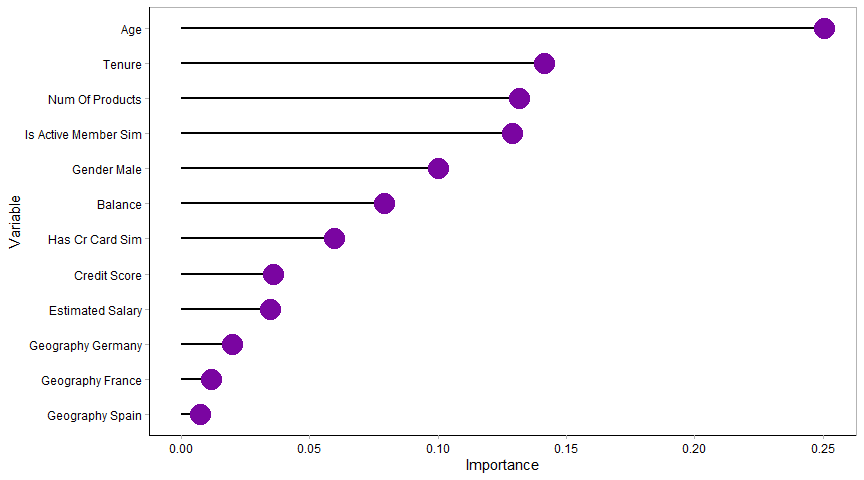
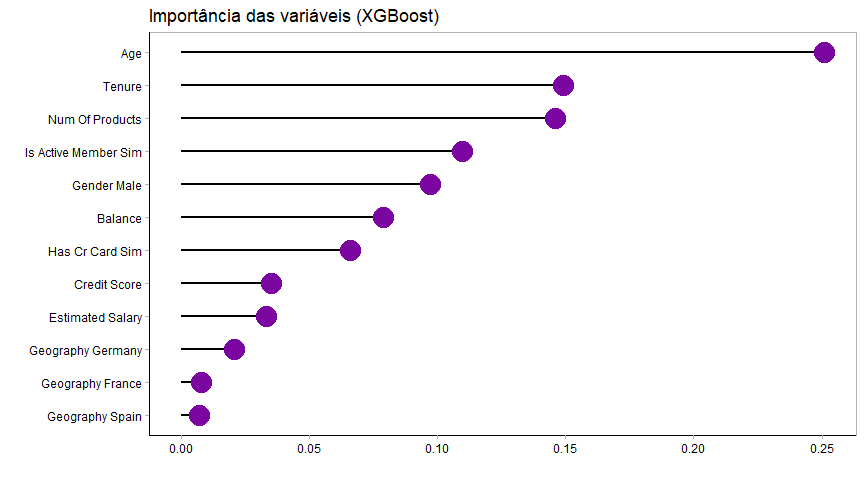
16/12

diff --git a/Churn.md b/Churn.md
@@ -15,8 +15,8 @@ Rodrigo F. Pizzinato
     -   [Especificação do modelo
         XGBoost](#especificação-do-modelo-xgboost)
     -   [Balanceamento de classes](#balanceamento-de-classes)
--   [Matriz de confusão com dados
-    balanceados](#matriz-de-confusão-com-dados-balanceados)
+-   [Matriz de confusão com classes
+    balanceadas](#matriz-de-confusão-com-classes-balanceadas)
 -   [Importância das variáveis](#importância-das-variáveis)
 
 # O problema de negócio
@@ -419,7 +419,8 @@ churn_rec <- recipe(exited ~ ., data = churn_train) %>%
   step_normalize(all_numeric_predictors()) %>% # normaliza os dados numericos
   step_dummy(all_nominal_predictors(), one_hot = TRUE) %>% # cria dummies de variaveis categoricas através de one hot encoding
   step_corr(all_numeric_predictors(), threshold = 0.8) %>% # retira variaveis com correlação > 0.8
-  step_zv(all_predictors()) # retira variaveis com variância zero 
+  step_zv(all_predictors()) %>% # retira variaveis com variância zero
+  step_adasyn(exited)
 ```
 
 Nesta etapa, os dados são ajustado da forma correta para os modelos.
@@ -437,23 +438,23 @@ churn_rec %>%
   juice() 
 ```
 
-    ## # A tibble: 7,999 x 13
-    ##    credi~1    age  tenure balance num_o~2 estim~3 exited geogr~4 geogr~5 geogr~6
-    ##      <dbl>  <dbl>   <dbl>   <dbl>   <dbl>   <dbl> <fct>    <dbl>   <dbl>   <dbl>
-    ##  1  0.549   0.127 -1.55    -1.32    0.892  0.245  Nao          1       0       0
-    ##  2  1.83    0.508 -0.886    0.771  -0.950  0.0770 Nao          0       0       1
-    ##  3  1.61    1.10   0.716   -1.32    0.892 -1.95   Nao          1       0       0
-    ##  4 -1.63    0.598 -0.0514   0.793   0.892  0.0239 Nao          1       0       0
-    ##  5  0.407  -1.30  -0.886    0.784  -0.950 -0.0192 Nao          1       0       0
-    ##  6 -1.97   -0.407  1.24    -1.32    0.892 -1.01   Nao          1       0       0
-    ##  7 -1.03   -1.60   0.246   -1.32    0.892  0.945  Nao          1       0       0
-    ##  8 -0.0793 -0.294  0.716   -1.32    0.892 -0.102  Nao          0       0       1
-    ##  9 -0.278   0.686 -0.416    0.795   0.892 -0.126  Nao          0       1       0
-    ## 10 -1.03   -1.75   1.08    -1.32    0.892 -1.60   Nao          0       0       1
-    ## # ... with 7,989 more rows, 3 more variables: gender_Male <dbl>,
-    ## #   has_cr_card_Sim <dbl>, is_active_member_Sim <dbl>, and abbreviated variable
-    ## #   names 1: credit_score, 2: num_of_products, 3: estimated_salary,
-    ## #   4: geography_France, 5: geography_Germany, 6: geography_Spain
+    ## # A tibble: 12,740 x 13
+    ##    credit_score    age  tenure balance num_of_~1 estim~2 geogr~3 geogr~4 geogr~5
+    ##           <dbl>  <dbl>   <dbl>   <dbl>     <dbl>   <dbl>   <dbl>   <dbl>   <dbl>
+    ##  1       0.551   0.140 -1.55    -1.32      0.873  0.242        1       0       0
+    ##  2       1.83    0.518 -0.884    0.769    -0.950  0.0707       0       0       1
+    ##  3      -1.63    0.607 -0.0506   0.791     0.873  0.0167       1       0       0
+    ##  4       0.408  -1.27  -0.884    0.782    -0.950 -0.0273       1       0       0
+    ##  5      -1.29   -0.744  0.498    0.732     0.873  0.0845       1       0       0
+    ##  6      -1.68   -1.72  -0.415   -1.32      0.873  0.0359       0       0       1
+    ##  7      -1.97   -0.389  1.24    -1.32      0.873 -1.04         1       0       0
+    ##  8      -1.03   -1.57   0.247   -1.32      0.873  0.955        1       0       0
+    ##  9      -0.0786 -0.277  0.716   -1.32      0.873 -0.112        0       0       1
+    ## 10      -0.278   0.694 -0.415    0.792     0.873 -0.137        0       1       0
+    ## # ... with 12,730 more rows, 4 more variables: gender_Male <dbl>,
+    ## #   has_cr_card_Sim <dbl>, is_active_member_Sim <dbl>, exited <fct>, and
+    ## #   abbreviated variable names 1: num_of_products, 2: estimated_salary,
+    ## #   3: geography_France, 4: geography_Germany, 5: geography_Spain
 
 ``` r
 set.seed(148)
@@ -582,7 +583,7 @@ xgb_rs_balanced %>%
 
 Melhores parâmetros para F1-Score
 
-# Matriz de confusão com dados balanceados
+# Matriz de confusão com classes balanceadas
 
 ``` r
 xgb_rs_balanced %>% 
@@ -614,7 +615,9 @@ xgb_last_fit %>%
          Variable = fct_reorder(Variable, Importance)) %>% 
   ggplot(aes(Importance, Variable)) +
   ggalt::geom_lollipop(point.colour = churn_colors[2], point.size = 7,
-                       size = 1, horizontal = TRUE)
+                       size = 1, horizontal = TRUE) + 
+  labs(x='',y='',
+       title = "Importância das variáveis (XGBoost)")
 ```
 
 ![](Churn_files/figure-gfm/unnamed-chunk-21-1.png)<!-- -->

diff --git a/README.md b/README.md
@@ -6,7 +6,7 @@
 ## Objetivo do projeto
 
 Para visualizar o projeto [clique
-aqui](https://github.com/RodrigoFP51/Analise_churn/blob/master/Churn.md) 
+aqui](https://github.com/RodrigoFP51/Analise_churn/blob/master/Churn.md)
 
 ![variable importance
 plot](Churn_files/figure-gfm/unnamed-chunk-22-2.png)
